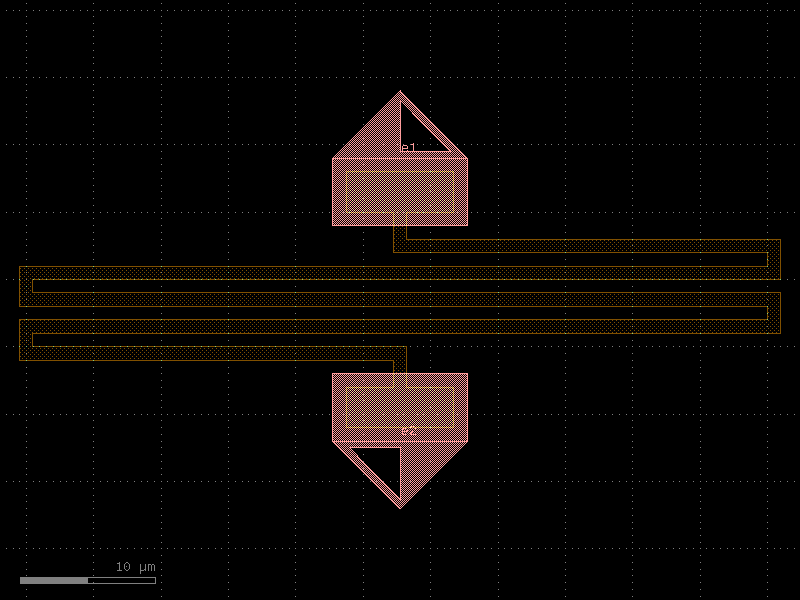
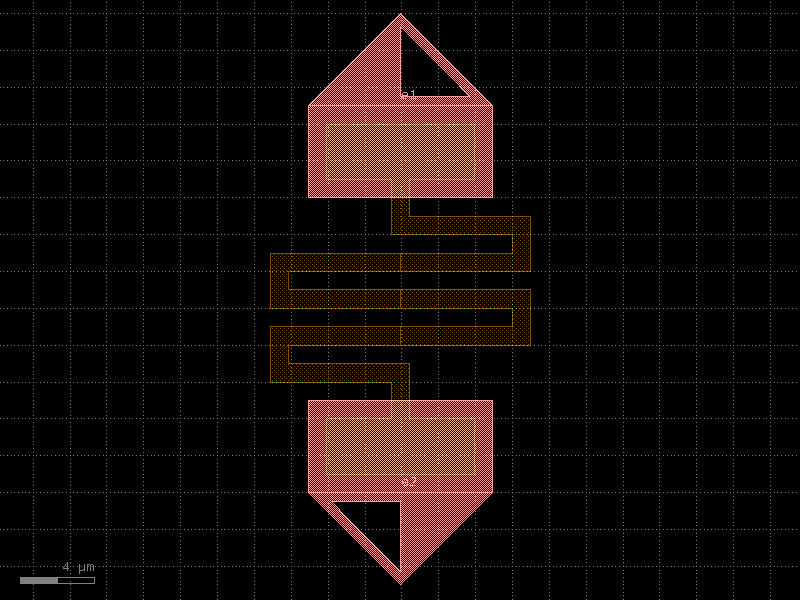
fix bug in resistor code that accidentally quadrupled the number of squares

Changed region(s): [[0.0312, 0.03, 0.9688, 0.96], [0.0625, 0.93, 0.1875, 0.99]]

diff --git a/src/qnngds/devices/resistor.py b/src/qnngds/devices/resistor.py
@@ -126,7 +126,7 @@ def meander(
         (squares - 3.09) / n_turn - 1.09 - (pitch - width) / width
     ) * width / 2 + width
     # round to nearest 2nm, since gdsfactory rounds to nearest 1nm which can cause gaps between each hairpin
-    hp_length = 2e-3 * np.round(hp_length * 2e3)
+    hp_length = np.round(2 * hp_length / gf.kcl.dbu) * (gf.kcl.dbu / 2)
     hp = hairpin(hp_length)
     hp_prev = None
     for i in range(n_turn):
